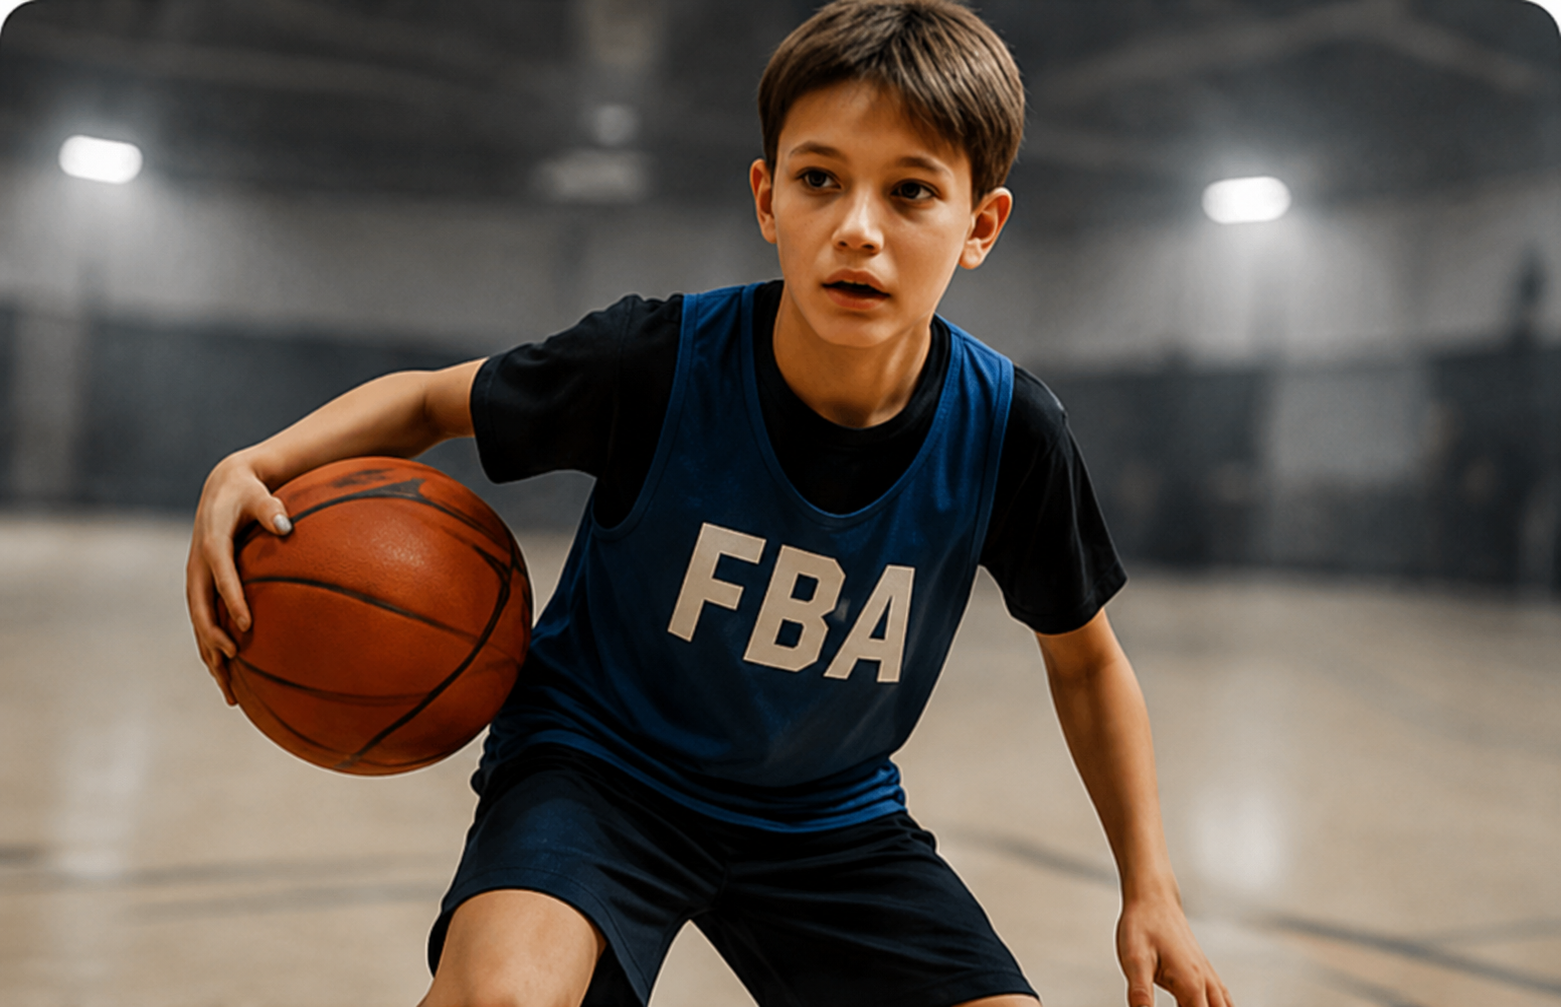
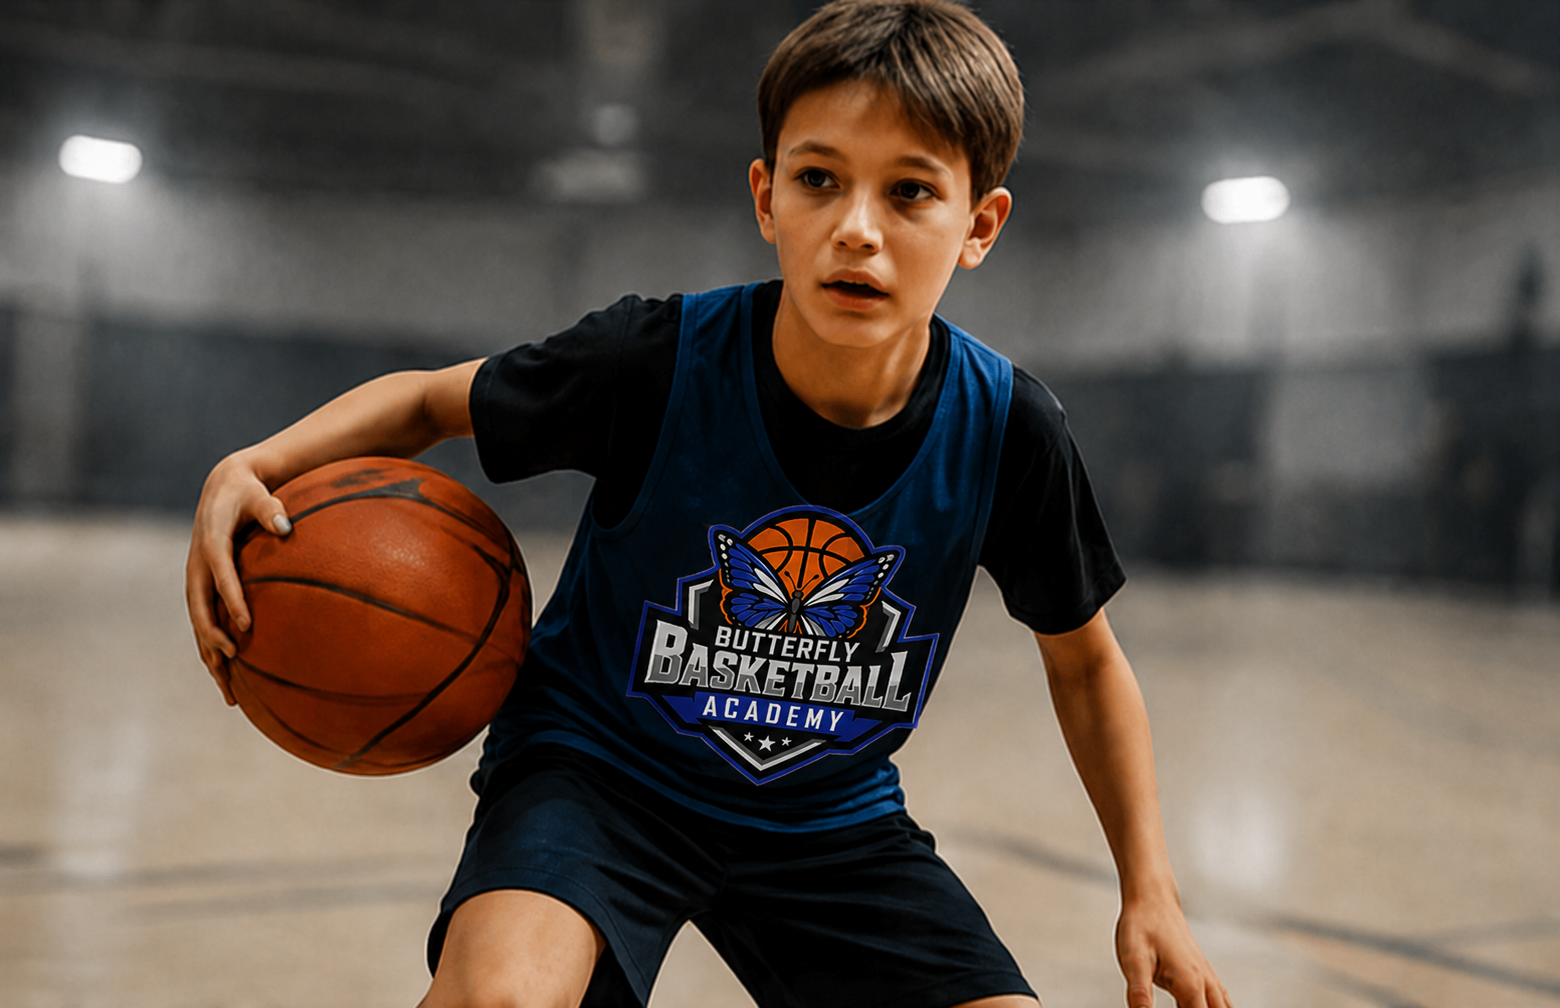
Update last17

diff --git a/components/pages/coaches-page/CoachesPageContent.tsx b/components/pages/coaches-page/CoachesPageContent.tsx
@@ -62,7 +62,7 @@ export default function CoachesPageContent() {
         <div className="page-content-center">
           <span className="page-tag">OUR STAFF</span>
 
-          <h2 className="page-title">Meet The Coaches Behind FBA</h2>
+          <h2 className="page-title">Meet The Coaches Behind BBA</h2>
 
           <p className="page-text page-text--center">
             Our coaching staff is dedicated to helping every athlete maximize

diff --git a/components/layout/navbar/Navbar.tsx b/components/layout/navbar/Navbar.tsx
@@ -43,7 +43,7 @@ export default function Navbar() {
         <Link href="/" className="navbar__logo" onClick={closeMenu}>
           <Image
             src="/images/logo1.png"
-            alt="FBA Logo"
+            alt="BBA Logo"
             width={170}
             height={170}
             priority

diff --git a/components/pages/about-page/AboutPage.tsx b/components/pages/about-page/AboutPage.tsx
@@ -9,7 +9,7 @@ export default function AboutPageContent() {
           <div>
             <img
               src="/images/about.png"
-              alt="About FBA"
+              alt="About BBA"
               className="page-image"
             />
           </div>

diff --git a/app/(public)/about/page.tsx b/app/(public)/about/page.tsx
@@ -6,7 +6,7 @@ export default function AboutPage() {
   return (
     <>
       <PageBanner
-        title="ABOUT FBA"
+        title="ABOUT BBA"
         subtitle="Building athletes, leaders and character through basketball."
       />
 
